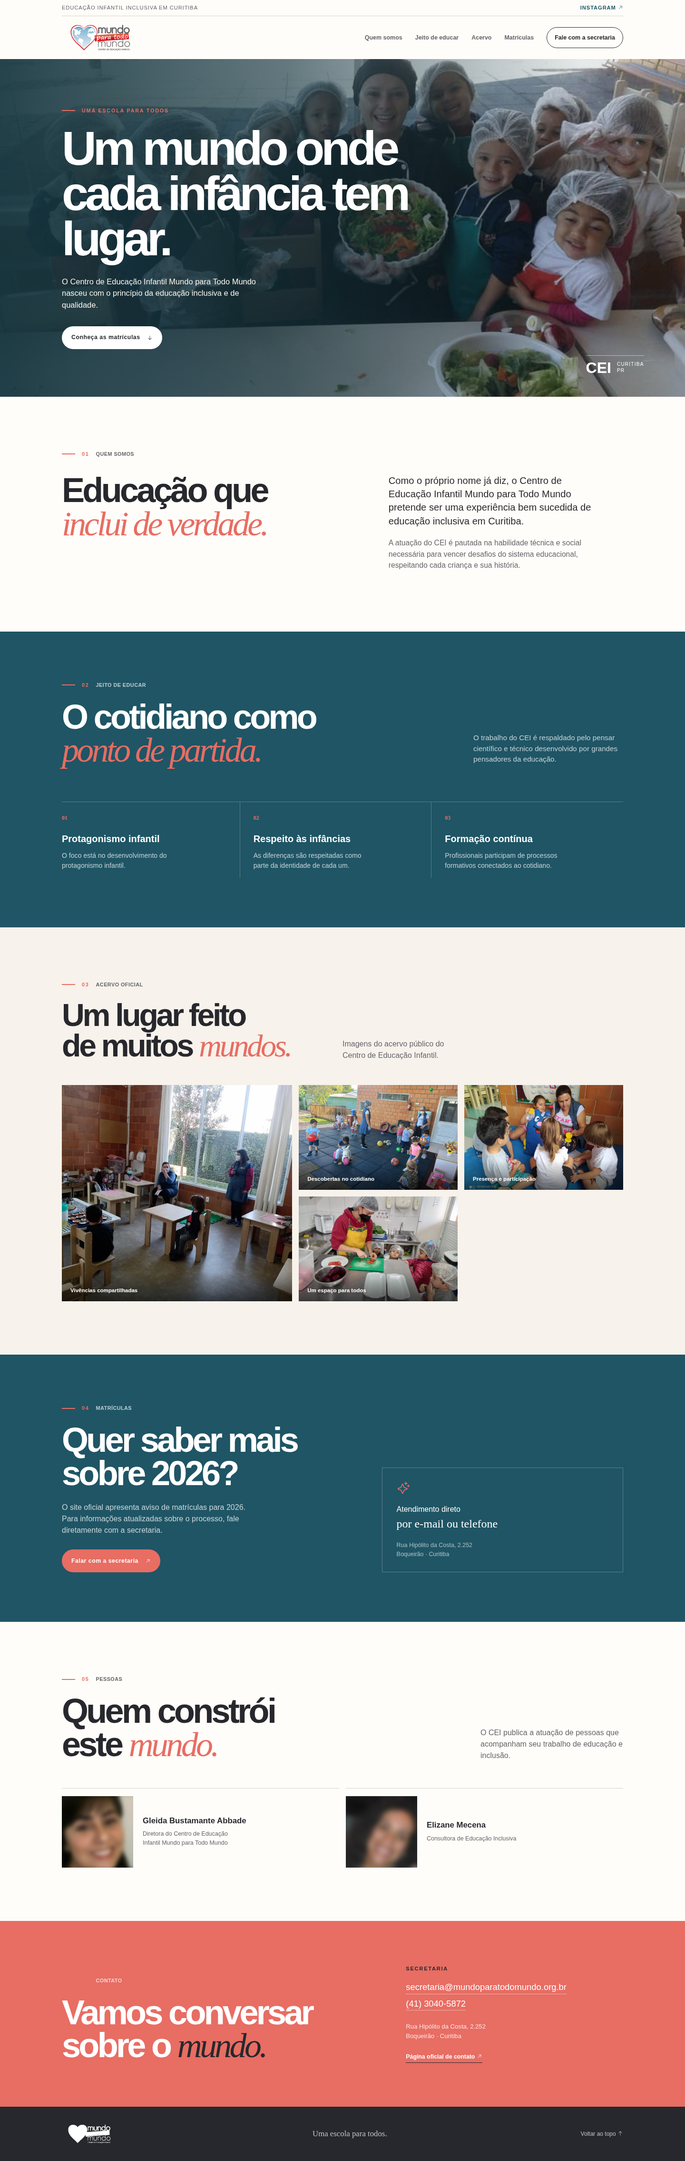
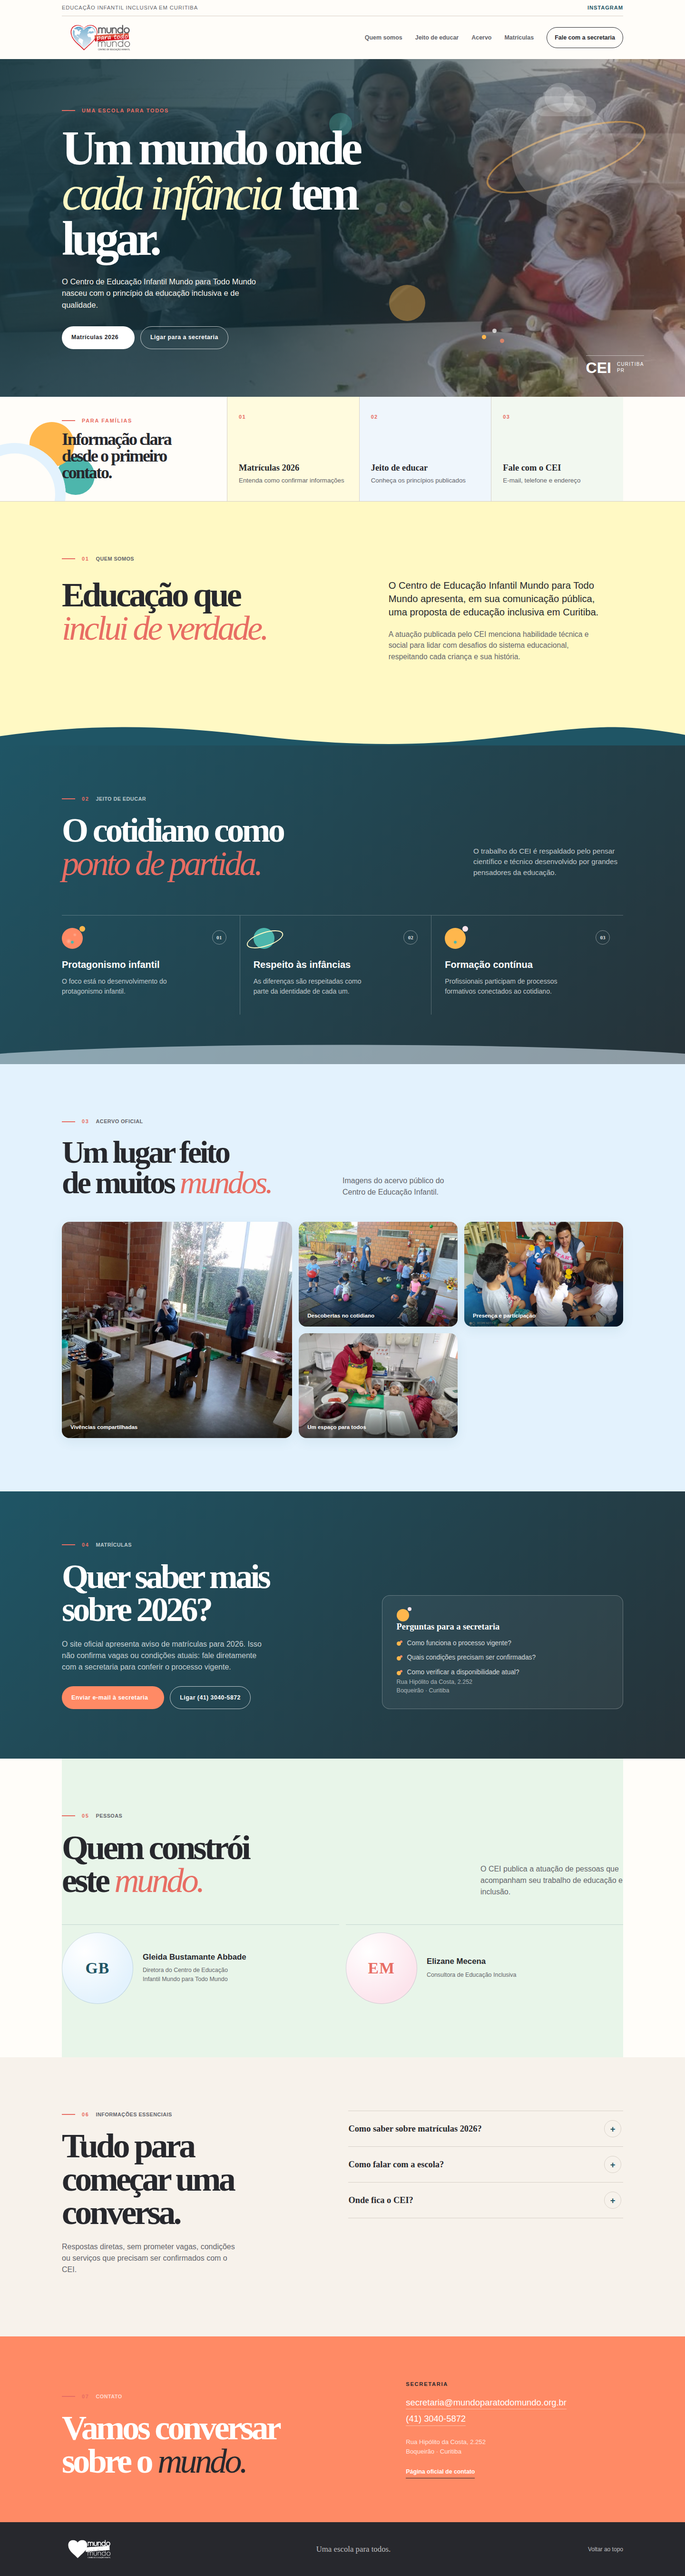
Address site-review feedback for Mundo para Todo Mundo
Two items from the site review:

- Blurred teacher portraits: the only portraits published on the
  official domain are 234x253 and 319x302 screenshot crops that are
  already out of focus at the source, so no display change can make
  them sharp. The "Pessoas" section now uses circular typographic
  monograms; the archived files and the swap-back path are documented
  in SOURCE_MANIFEST.md.
- Decorative circles: some of them are now planets. The large hero
  circle became a cratered body with a tilted amber ring, principle
  icon 01 gained craters and icon 02 traded its satellite for a ring.
  The remaining dots stay neutral so the page keeps reading editorial.

Revalidated with verify_playwright.js at 1440x900 and 390x844 (no
horizontal overflow, no console/page/request errors, mobile menu
keyboard states intact); evidence/, review/ and verification-output.json
regenerated.

Claude-Session: https://claude.ai/code/session_01B1WXpN5piKZKBH66gH9EtV

diff --git a/sources/prospect-batch/2026-07-17/mundo-para-todo-mundo/styles.css b/sources/prospect-batch/2026-07-17/mundo-para-todo-mundo/styles.css
@@ -46,13 +46,24 @@ a:focus-visible, button:focus-visible { outline: 3px solid var(--coral); outline
 .hero-image:after { content: ""; position: absolute; inset: 0; background: linear-gradient(110deg, rgba(20,52,61,.94) 0%, rgba(20,52,61,.7) 45%, rgba(239,143,112,.25) 100%); }
 .hero-image img { width: 100%; height: 100%; object-fit: cover; object-position: center 48%; filter: saturate(.86); }
 .hero:before, .hero:after { content: ""; position: absolute; border-radius: 50%; pointer-events: none; z-index: 1; }
-.hero:before { width: 220px; height: 220px; right: 10%; top: 13%; background: rgba(255,255,255,.11); box-shadow: -330px 310px 0 -72px rgba(255,183,77,.42), -470px -65px 0 -86px rgba(77,182,172,.35); }
+.hero:before { width: 220px; height: 220px; right: 10%; top: 13%; box-shadow: -330px 310px 0 -72px rgba(255,183,77,.42), -470px -65px 0 -86px rgba(77,182,172,.35); }
 .hero:after { width: 360px; height: 105px; right: -40px; top: 22%; border-radius: 100px; background: rgba(255,255,255,.15); filter: blur(1px); }
 .hero-content { position: relative; z-index: 2; padding-block: 100px; color: #fff; }
 .hero-cloud { position: absolute; z-index: 2; right: 13%; top: 11%; width: 130px; height: 42px; border-radius: 50px; background: rgba(255,255,255,.2); pointer-events: none; }
 .hero-cloud:before, .hero-cloud:after { content: ""; position: absolute; bottom: 8px; border-radius: 50%; background: inherit; }
 .hero-cloud:before { width: 62px; height: 62px; left: 22px; }
 .hero-cloud:after { width: 48px; height: 48px; right: 20px; }
+.hero-planet { position: absolute; z-index: 1; right: 10%; top: 13%; width: 220px; height: 220px; pointer-events: none; }
+.hero-planet:before, .hero-planet:after { content: ""; position: absolute; }
+.hero-planet:before { left: 50%; top: 50%; width: 344px; height: 98px; margin: -49px 0 0 -172px; border: 4px solid rgba(255,183,77,.5); border-radius: 50%; transform: rotate(-19deg); }
+.hero-planet:after {
+  inset: 0;
+  border-radius: 50%;
+  background:
+    radial-gradient(circle 13px at 36% 64%, rgba(255,255,255,.2), transparent 100%),
+    radial-gradient(circle 19px at 63% 37%, rgba(255,255,255,.16), transparent 100%),
+    radial-gradient(circle at 32% 27%, rgba(255,255,255,.3), rgba(255,255,255,.16) 62%, rgba(255,255,255,.08));
+}
 .hero-dots { position: absolute; right: 29%; bottom: 17%; width: 9px; height: 9px; border-radius: 50%; background: var(--warm-amber); box-shadow: 22px -13px 0 rgba(255,255,255,.72), 38px 8px 0 rgba(255,138,101,.72); }
 .eyebrow, .section-kicker { display: flex; align-items: center; gap: 14px; color: var(--coral); font-weight: bold; text-transform: uppercase; letter-spacing: .16em; font-size: .68rem; margin: 0 0 24px; }
 .eyebrow:before, .section-kicker:before { content: ""; display: block; width: 28px; height: 2px; background: currentColor; }
@@ -141,10 +152,31 @@ em { font-family: Georgia, "Times New Roman", serif; font-weight: 400; color: va
 .principle-list article { position: relative; padding: 26px 28px 24px 0; border-right: 1px solid rgba(255,255,255,.25); transition: transform .3s ease, box-shadow .3s ease; }
 .principle-list article:last-child { border: 0; }
 .principle-list article:hover { transform: translateY(-4px); }
-.principle-icon { display: block; width: 44px; height: 44px; border-radius: 50%; background: var(--warm-coral); position: relative; }
+.principle-icon {
+  display: block;
+  width: 44px;
+  height: 44px;
+  border-radius: 50%;
+  position: relative;
+  background:
+    radial-gradient(circle 6px at 33% 64%, rgba(255,255,255,.34), transparent 100%),
+    radial-gradient(circle 4px at 62% 33%, rgba(255,255,255,.3), transparent 100%),
+    var(--warm-coral);
+}
 .principle-icon:after { content: ""; position: absolute; width: 12px; height: 12px; border-radius: 50%; background: var(--warm-amber); right: -5px; top: -4px; box-shadow: -21px 28px 0 -3px var(--warm-teal); }
 .principle-list article:nth-child(2) .principle-icon { background: var(--warm-teal); }
-.principle-list article:nth-child(2) .principle-icon:after { background: var(--pastel-yellow); }
+.principle-list article:nth-child(2) .principle-icon:after {
+  width: 76px;
+  height: 26px;
+  right: auto;
+  top: 50%;
+  left: 50%;
+  margin: -13px 0 0 -38px;
+  background: none;
+  border: 2px solid var(--pastel-yellow);
+  box-shadow: none;
+  transform: rotate(-18deg);
+}
 .principle-list article:nth-child(3) .principle-icon { background: var(--warm-amber); }
 .principle-list article:nth-child(3) .principle-icon:after { background: var(--pastel-pink); }
 .principle-list article > span:not(.principle-icon) { position: absolute; top: 31px; right: 28px; width: 30px; height: 30px; display: grid; place-items: center; border: 1px solid rgba(255,255,255,.42); border-radius: 50%; color: rgba(255,255,255,.85); font: 700 .7rem Georgia, serif; }
@@ -205,7 +237,19 @@ figcaption { position: absolute; bottom: 0; left: 0; right: 0; padding: 30px 18p
 .people-heading p { max-width: 300px; color: var(--muted); margin: 0; }
 .people-grid { display: grid; grid-template-columns: 1fr 1fr; gap: 14px; margin-top: 56px; }
 .person { display: grid; grid-template-columns: 150px 1fr; gap: 20px; align-items: center; border-top: 1px solid rgba(31,85,101,.18); padding-top: 16px; }
-.person img { width: 150px; height: 150px; object-fit: cover; object-position: top; background: var(--cream); border-radius: 50%; }
+.person-mark {
+  width: 150px;
+  height: 150px;
+  border-radius: 50%;
+  display: grid;
+  place-items: center;
+  font: 700 2.1rem/1 Georgia, "Times New Roman", serif;
+  letter-spacing: .04em;
+  color: var(--blue-deep);
+  background: radial-gradient(circle at 32% 27%, #fff, var(--pastel-blue) 72%);
+  box-shadow: inset 0 0 0 1px rgba(31,85,101,.18);
+}
+.person:nth-child(2) .person-mark { color: var(--coral); background: radial-gradient(circle at 32% 27%, #fff, var(--pastel-pink) 72%); }
 .person h3 { margin: 0 0 9px; font-size: 1.05rem; }
 .person p { color: var(--muted); font-size: .78rem; margin: 0; max-width: 190px; }
 
@@ -275,6 +319,7 @@ figcaption { position: absolute; bottom: 0; left: 0; right: 0; padding: 30px 18p
   .hero-actions { align-items: flex-start; flex-direction: column; }
   .hero-stamp { right: 20px; top: 24px; bottom: auto; }
   .hero-cloud { right: 7%; top: 9%; transform: scale(.72); transform-origin: right top; }
+  .hero-planet { right: 25%; top: 17%; transform: scale(.45); transform-origin: right top; }
   .hero-dots { right: 22%; bottom: 31%; }
   .section { padding-block: 76px; }
   .path-grid { grid-template-columns: 1fr; }
@@ -306,7 +351,7 @@ figcaption { position: absolute; bottom: 0; left: 0; right: 0; padding: 30px 18p
   .admission-actions { align-items: flex-start; flex-direction: column; }
   .people-grid { grid-template-columns: 1fr; margin-top: 38px; }
   .person { grid-template-columns: 100px 1fr; }
-  .person img { width: 100px; height: 100px; }
+  .person-mark { width: 100px; height: 100px; font-size: 1.5rem; }
   .contact-grid { gap: 40px; }
   .contact { padding-block: 76px; }
   .footer-row { align-items: flex-start; flex-wrap: wrap; }

diff --git a/sources/prospect-batch/2026-07-17/mundo-para-todo-mundo/index.html b/sources/prospect-batch/2026-07-17/mundo-para-todo-mundo/index.html
@@ -49,7 +49,7 @@
   </header>
 
   <main id="conteudo">
-    <section class="hero" id="inicio" aria-labelledby="hero-title"><span class="hero-cloud" aria-hidden="true"></span><span class="hero-dots" aria-hidden="true"></span>
+    <section class="hero" id="inicio" aria-labelledby="hero-title"><span class="hero-cloud" aria-hidden="true"></span><span class="hero-planet" aria-hidden="true"></span><span class="hero-dots" aria-hidden="true"></span>
       <div class="hero-image"><img src="assets/hero.jpg" alt="Grupo de crianças com toucas e uma pessoa adulta reunido ao redor de uma mesa"></div>
       <div class="hero-content wrap"><p class="eyebrow">Uma escola para todos</p><h1 id="hero-title">Um mundo onde <em>cada infância</em> tem lugar.</h1><p class="hero-lede">O Centro de Educação Infantil Mundo para Todo Mundo nasceu com o princípio da educação inclusiva e de qualidade.</p><div class="hero-actions"><a class="button button-light" href="#matriculas">Matrículas 2026 <span class="ph-icon ph-arrow-down" aria-hidden="true"></span></a><a class="button button-outline-light" href="tel:+554130405872">Ligar para a secretaria</a></div></div>
       <div class="hero-stamp" aria-label="Atuação em Curitiba"><span>CEI</span><small>Curitiba<br>PR</small></div>
@@ -79,7 +79,7 @@
 
     <section class="matriculas section-band" id="matriculas" aria-labelledby="matriculas-title"><div class="wrap admission-grid"><div><div class="section-kicker light">04 <span>Matrículas</span></div><h2 id="matriculas-title">Quer saber mais<br>sobre 2026?</h2><p>O site oficial apresenta aviso de matrículas para 2026. Isso não confirma vagas ou condições atuais: fale diretamente com a secretaria para conferir o processo vigente.</p><div class="admission-actions"><a class="button button-accent" href="mailto:secretaria@mundoparatodomundo.org.br?subject=Informa%C3%A7%C3%B5es%20sobre%20matr%C3%ADculas%202026">Enviar e-mail à secretaria <span class="ph-icon ph-arrow-up-right" aria-hidden="true"></span></a><a class="button button-outline-light" href="tel:+554130405872">Ligar (41) 3040-5872</a></div></div><div class="admission-note"><span class="note-mark" aria-hidden="true"></span><div><p class="admission-note-title">Perguntas para a secretaria</p><ul class="inquiry-list"><li>Como funciona o processo vigente?</li><li>Quais condições precisam ser confirmadas?</li><li>Como verificar a disponibilidade atual?</li></ul></div><small>Rua Hipólito da Costa, 2.252<br>Boqueirão · Curitiba</small></div></div></section>
 
-    <section class="people wrap section" aria-labelledby="people-title"><div class="section-kicker">05 <span>Pessoas</span></div><div class="people-heading"><h2 id="people-title">Quem constrói<br>este <em>mundo.</em></h2><p>O CEI publica a atuação de pessoas que acompanham seu trabalho de educação e inclusão.</p></div><div class="people-grid"><article class="person"><img src="assets/team-gleida.jpg" alt="Gleida Bustamante Abbade"><div><h3>Gleida Bustamante Abbade</h3><p>Diretora do Centro de Educação Infantil Mundo para Todo Mundo</p></div></article><article class="person"><img src="assets/team-elizane.jpg" alt="Elizane Mecena"><div><h3>Elizane Mecena</h3><p>Consultora de Educação Inclusiva</p></div></article></div></section>
+    <section class="people wrap section" aria-labelledby="people-title"><div class="section-kicker">05 <span>Pessoas</span></div><div class="people-heading"><h2 id="people-title">Quem constrói<br>este <em>mundo.</em></h2><p>O CEI publica a atuação de pessoas que acompanham seu trabalho de educação e inclusão.</p></div><div class="people-grid"><article class="person"><span class="person-mark" aria-hidden="true">GB</span><div><h3>Gleida Bustamante Abbade</h3><p>Diretora do Centro de Educação Infantil Mundo para Todo Mundo</p></div></article><article class="person"><span class="person-mark" aria-hidden="true">EM</span><div><h3>Elizane Mecena</h3><p>Consultora de Educação Inclusiva</p></div></article></div></section>
 
     <section class="faq section" id="informacoes" aria-labelledby="faq-title"><div class="wrap faq-grid"><div><div class="section-kicker">06 <span>Informações essenciais</span></div><h2 id="faq-title">Tudo para começar uma conversa.</h2><p>Respostas diretas, sem prometer vagas, condições ou serviços que precisam ser confirmados com o CEI.</p></div><div class="faq-list"><details><summary>Como saber sobre matrículas 2026?</summary><p>O site oficial apresenta um aviso de matrículas para 2026. Confirme processo, condições e disponibilidade diretamente com a secretaria.</p></details><details><summary>Como falar com a escola?</summary><p>Use o e-mail secretaria@mundoparatodomundo.org.br ou ligue para (41) 3040-5872.</p></details><details><summary>Onde fica o CEI?</summary><p>Rua Hipólito da Costa, 2.252, no bairro Boqueirão, em Curitiba.</p></details></div></div></section>
 

diff --git a/sources/prospect-batch/2026-07-17/mundo-para-todo-mundo/BUILD_REPORT.md b/sources/prospect-batch/2026-07-17/mundo-para-todo-mundo/BUILD_REPORT.md
@@ -83,3 +83,12 @@ Nenhum scheduler foi alterado, nenhum contato foi realizado, nenhum deploy foi f
 Foram atualizados `index.html` e `styles.css`. A nova versão reforça os dois próximos passos verificados já no hero (matrículas 2026 e telefone da secretaria), adiciona um percurso rápido para famílias, uma seção de informações essenciais e dados estruturados limitados aos contatos/endereço confirmados. O `tel:` inválido da versão anterior foi corrigido para `+554130405872`, e o tamanho do título no hero mobile foi reequilibrado para manter a mensagem, o contexto e os dois CTAs em uma primeira tela mais útil.
 
 A renderização foi validada em 1440×900 e 390×844: zero overflow horizontal, anchors ausentes, imagens quebradas, exceções de runtime ou requests com falha. O menu mobile abriu e fechou com estados/rótulos ARIA corretos e Escape. Também passaram a conferência estática de ativos/alt, `node --check script.js`, detecção de variáveis CSS sem definição, busca por linguagem proibida na produção e `git diff --check`.
+
+## Passagem de revisão visual — 26/07/2026
+
+Retorno da revisão de sites: retratos desfocados na seção “Pessoas” e sugestão de transformar parte dos círculos decorativos em planetas.
+
+- Retratos: as duas únicas imagens disponíveis no domínio oficial (`assets/team-gleida.jpg`, `assets/team-elizane.jpg`) são recortes de captura de tela em 234×253 e 319×302 px e já chegam desfocados na origem — nenhum ajuste de exibição recupera nitidez. A seção passou a usar monogramas circulares (`.person-mark`) em Georgia sobre gradiente pastel, preservando nomes e funções publicados. Os arquivos originais continuam arquivados e documentados no manifesto; basta trocar o monograma por `<img>` quando o CEI fornecer fotografias em resolução adequada.
+- Planetas: parte dos círculos já existentes virou planeta, sem novos elementos gratuitos. No hero, o círculo grande virou `.hero-planet` — corpo com crateras e brilho e anel âmbar inclinado. Em “Jeito de educar”, o ícone 01 ganhou crateras e o ícone 02 trocou o satélite por um anel. Os demais pontos (nuvem, satélites do hero, marcador de matrículas, bullets) seguem neutros, para que a leitura continue editorial e não vire tema espacial.
+
+Revalidação em 1440×900 e 390×844 com `verify_playwright.js`: HTTP 200, zero overflow horizontal, anchors resolvidos, ativos locais 200, zero erros de console/página/request, menu mobile abrindo por Enter e fechando por Escape, `proposal.html` com `noindex, nofollow` e nenhuma string de proposta na produção. `evidence/proposed/`, `review/` e `verification-output.json` foram regerados nesta passagem.

diff --git a/sources/prospect-batch/2026-07-17/mundo-para-todo-mundo/SOURCE_MANIFEST.md b/sources/prospect-batch/2026-07-17/mundo-para-todo-mundo/SOURCE_MANIFEST.md
@@ -18,7 +18,7 @@ Relatório de auditoria fornecido no briefing: `/opt/data/cron/output/bd2acb816e
 - Três palavras da presença atual: inclusiva, humana, comunitária.
 - Linguagem publicada preservada: “Uma escola para todos”; “educação inclusiva”; “protagonismo infantil”; “respeito pelas vivências das infâncias”.
 - Tese: este conceito pertence ao CEI porque transforma o próprio nome — “Mundo para Todo Mundo” — em uma composição de camadas, encontros e muitos pontos de entrada, sem inventar serviços ou promessas.
-- Ideia composicional: blocos editoriais em camadas, com círculos, recortes fotográficos e seções numeradas como um percurso.
+- Ideia composicional: blocos editoriais em camadas, com círculos, recortes fotográficos e seções numeradas como um percurso. Parte desses círculos é tratada como planetas (corpo com crateras e anel), ligando a decoração ao próprio nome “Mundo para Todo Mundo”; os demais permanecem como pontos neutros para não virar tema espacial.
 - Tipografia: Arial/Helvetica para leitura funcional, Georgia pontual em itálico para uma voz editorial humana; nenhuma fonte externa ou dependência de rede.
 - Tratamento de imagem: fotos oficiais locais em recortes amplos, sem overlay pesado, com textos alternativos úteis.
 - Paleta de direção: azul profundo `#1f5565` e coral `#e86d63` derivados da leitura do logotipo e do acervo; papel `#fffdf9`, creme `#f7f2eb`, carvão `#27282d`. Os novos tons são usados para contraste, orientação e destaque de ação.
@@ -44,6 +44,8 @@ Todos foram baixados diretamente do domínio oficial `https://mundoparatodomundo
 | assets/ods.png | `/2022/06/Selo-Sesi-ODS-2021-150x150-1.png` |
 
 `news-2026.jpg`, `popup-2025.jpg` e `ods.png` foram preservados localmente para rastreabilidade da pesquisa, mas não são usados como afirmações novas na homepage.
+
+`team-gleida.jpg` e `team-elizane.jpg` são recortes de captura de tela publicados pela fonte (234×253 e 319×302 px, visivelmente desfocados na origem). Como não existe versão nítida no domínio oficial, os arquivos permanecem arquivados para rastreabilidade, mas não são exibidos: a seção “Pessoas” usa monogramas circulares tipográficos com os nomes e funções publicados. Fotografias reais podem substituir os monogramas assim que o CEI fornecer arquivos em resolução adequada.
 
 ## Evidência visual
 
